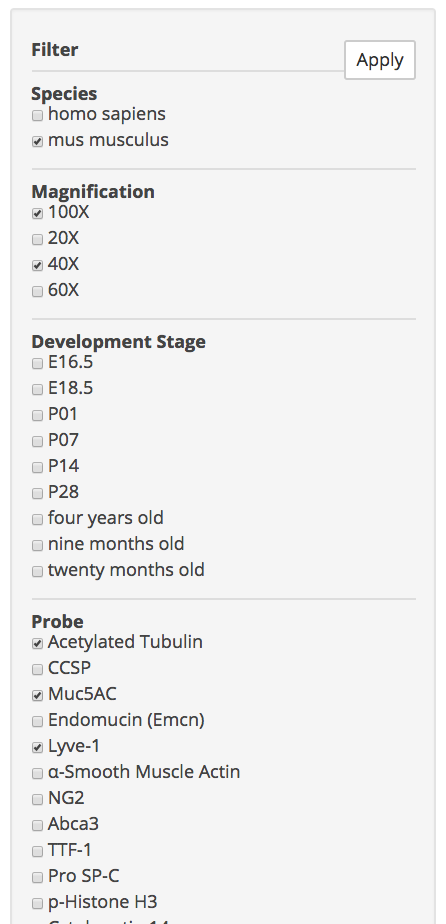
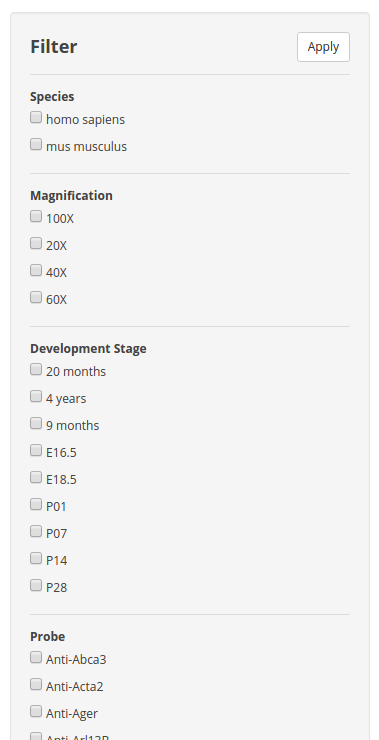
update UI instructions

Changed region(s): [[0.058, 0.0311, 0.5224, 1.0], [0.7546, 0.0311, 0.9288, 0.0932]]

diff --git a/UI_INSTRUCTIONS.md b/UI_INSTRUCTIONS.md
@@ -1,18 +1,17 @@
 # User Interface Instructions
 
-Welcome to `ihc-image-analysis`, an application that exposes, curates, and brings computer vision to Lungmap data. 
-The following instructions provide additional details to the use of our applicatoin. Specifically,
+Welcome to `ihc-image-analysis`, web application for analyzing immuno-histochemistry images data found within the LungMAP repository.
+The following instructions provide additional details to the use of our application. Specifically,
 
-1.  [Choosing an Image Set](#choosing-an-imageset)
-- [Side Panel](#side-panel)
-- [Image Set Selection](#image-set-selection)
-2.  [Navigating within an Image Set](#navigating-an-imageset)
-- [Generating Training Data](#generating-training-data)
-- [Classifying Anatomy](#classifying-anatomy)
-- [RESTful Application Programming Interface](#restful)
+1. [Choosing an Image Set](#choosing-an-imageset)
+1. [Side Panel](#side-panel)
+1. [Image Set List](#image-set-list)
+1. [Image Set Detail](#image-set-detail)
+1. [Generating Training Data](#generating-training-data)
 
 ## Choosing an Image Set <a id="choosing-an-imageset"></a>
-`ImageSets` are a collection of LungMap images grouped together according to the following four variables:  
+
+An `Image Set` is a collection of LungMAP images grouped together according to the following four variables:
 - Species
 - Magnification
 - Development Stage
@@ -20,63 +19,63 @@ The following instructions provide additional details to the use of our applicat
 
 These groups of images make up a critical component of the `ihc-image-analysis` application because our solution to 
 automatically annotate a given image segmentation relies on strata defined models made up of these four variables.
-Our first page provides functionality to narrow focus to imagesets by allowing users to subset based on these four 
-variables.
+Our first page provides functionality to filter image sets based on these four variables.
 
 ### Side Panel <a id="side-panel"></a>
-The `side panel` allows users to subset `ImageSets`. Here is a quick overview of the side panel:  
-![mail](ui-instructions/sidepanel.png)
 
-To utilize the side panel to narrow the scope of available `ImageSets`, it is important to remeber that all chosen 
-options are chained together with an `OR` statement within a given variable and `AND` between different variables. So for example, if I were to click `Apply` with the boxes checked 
-above, the system would interpret this request as:
-> Give me all imagesets with (species='mus musculus`) **AND** (sidepanel='100X' *OR* sidepanel='40X') **AND** (probe='Acetylated Tubulin' *OR* probe='Muc5AC' *OR* probe='Lyve-1')
+The `side panel` allows users to filter the list of `Image Sets`. Here is a quick overview of the side panel:
+
+![Image Set List - Side Panel](ui-instructions/sidepanel.png)
+
+To utilize the side panel to narrow the scope of available `ImageSets`, it is important to remember that, within a given variable, the chosen
+options are combined with `OR` logic, while the different variables are combined using `AND` logic. For example, selecting:
+* Species:
+  * 'mus musculus'
+* Magnification:
+  * 100X
+  * 40X
+* Probe:
+  * 'Anti-Abca3'
+  * 'Anti-Acta2'
+
+would filter all image sets showing only those with (species='mus musculus`) **AND** (magnification='100X' *OR* magnification='40X') **AND** (probe='Anti-Abca3' *OR* probe='Anti-Acta2').
  
-### Image Set Selection <a id="image-set-selection"></a>
-Once the results have been narrowed sufficiently, a user will want to choose a given image set. Use the `Apply` button to filter
-the results. Once filtered, results are displayed to the right of the side panel:
+### Image Set List <a id="image-set-list"></a>
 
-![mail](ui-instructions/imagesets_results.png)
+Once the results have been narrowed sufficiently, a user will want to choose a given image set. Click the `Apply` button to filter the results. Once filtered, results are displayed to the right of the side panel. To navigate to a particular image set, click the `View` link found in the 1st column of the image set list.
 
-To actually filter the results, click the `View` button and a new user interface will be given.
+![Image Set List Results](ui-instructions/imagesets_results.png)
 
-## Navigating within an Image Set <a id="navigating-an-imageset"></a>
-After selecting an imageset, you'll be presented with this screen:
+## Image Set Detail <a id="image-set-detail"></a>
 
-![mail](ui-instructions/imageset_b_functionality.png)
+Selecting an image set will navigate to the image set detail view, where the images belonging to that image set can be viewed and annotated. The panel on the left-hand side provides details about the image set, including annotation summaries.
 
-Keep in mind an `ImageSet` is just a collection of images with similar attributes. The left-hand side panel, is a view
-into descriptions about imageset specific criteria and summaries. To drill down into images, select the drop down menu
-titled `Choose Images`. This will automatically populated a list of all available images in the imageset. You can choose 
-to load one into the work panel below by clicking on the desired image name. Once chosen, your screen should look like 
-this:
+![Image Set Detail](ui-instructions/imageset_b_functionality.png)
 
-![mail](ui-instructions/choose_image.png)
+ To select an image, click on the `Choose Image` drop-down menu. Click on one of the image names listed to load that image.
 
-**Notice** the three new buttons that appear above the image (i.e. View, Train, Classify). These buttons change the view 
-of the work panel. *View* simply allows users to look at the image. The other two buttons, have significantly more 
-capabilities and we'll walk though that in the next two sections. 
+![Choosing an Image from an Image Set](ui-instructions/choose_image.png)
+
+The selected image will load. **Note:** The first time an image is loaded the web application will begin retrieving the image from the LungMAP repository. This can take a few seconds. Once the image is retrieved this first time, it will be saved in the IHC application and will load much faster on subsequent requests. When the image is displayed, notice the 2 new buttons above the image: `Train` and `Classify`. These buttons control the mode of the annotation tool and will be described in more detail in the next two sections. By default, the image will load in `Train` mode.
+
+![Loaded Image - Train Mode](ui-instructions/loaded_image.png)
+
 
 ### Generating Training Data <a id="generating-training-data"></a>
-After selecting the train button, your screen should look similar to this:
 
-![mail](ui-instructions/train_1.png)
+In `Train` mode, additional buttons are available above the loaded image: a drop-down menu `Label
+Subregion`, an orange button labelled `Delete Regions`, and a green button labelled `Save Subregions`. To generate training data:
 
-**Notice** additional buttons are now available in the work panel. Specifically, these are a drop down menu `Label 
-Subregion`, and a button that is inactive named Save Subregions. `Save Subregions` will remain inactive until the user
-chooses a subregion to select. So here is the sequence to generate training data:
+1. From the `Label Subregions` drop-down menu, choose the anatomical structure for which you want to segment.
+  * **Note:** If regions for this image & anatomical structure have already been saved, these regions will automatically appear.
+1. To begin segmenting a new region, `left-click` anywhere around the region of interest.
+1. Continue to left-click around the segment until it is completely encapsulated. **Note:** The "active" region is the one currently being drawn and is indicated by the presence of rectangular "handles" displayed over each vertex.
+1. Once finished segmenting the active region, hit the `Enter` key to deactivate the region.
+1. Now, with no region being active, any new left-click will begin a new region.
+1. Continue segmenting regions following the above steps.
 
-(1) Choose the anatomy that you want to begin to segment from the drop down list `Label Subregions`.
-(2) Once chosen, the name of the subregion should appear in the center above the image.
-(3) If other users have generated training data for that image. The segments will automatically appear.
-(4) To begin capturing new segments, left-click anywhere around the segment of interest.
-(5) Continue to left-click around the segment until it is completly encapsulated.
+While segmenting an active region, any vertex of of the polygon can be moved by a click-and-drag within the rectangular "handle" around the vertex. A vertex can be deleted using the right mouse click while hovering over its handle. An entire region can be deleted by a right mouse click while hovering over the inside of the polygon.
 
-Training data can be defined as the segmentation of anatomy within a given Imageset/Image. An example of this can be
-see here:
+All the regions for the currently viewed image and anatomical structure can be deleted by clicking on the orange `Delete Regions` button.
 
-
-### Classifying Anatomy <a id="classifying-anatomy"></a>
-
-
-### RESTful Application Programming Interface <a id="restful"></a>
+#### **Note: You must click on the green `Save Regions` button to save the new regions that have been drawn. New regions are not automatically saved to the database.**
